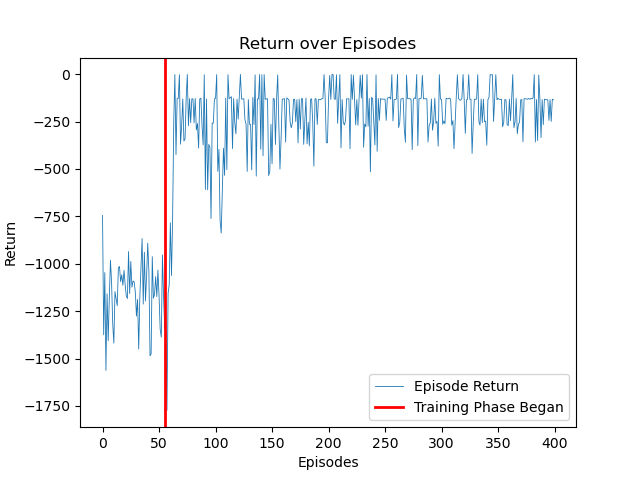
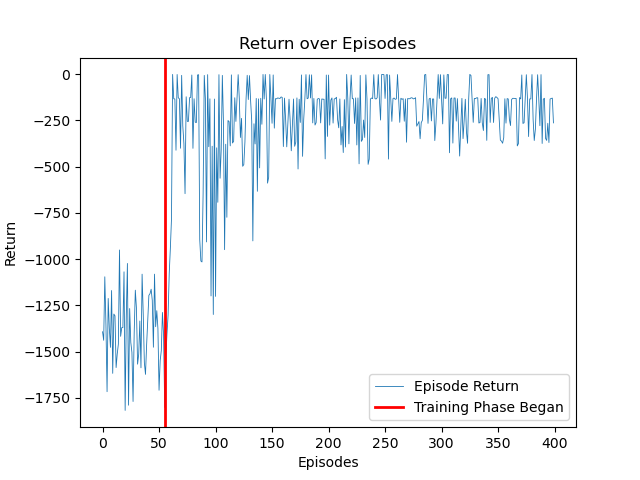
sac error fixed - no target actor

diff --git a/Soft Actor Critic (SAC)/SAC_Networks.py b/Soft Actor Critic (SAC)/SAC_Networks.py
@@ -32,8 +32,9 @@ class SAC(object):
 
         with tf.compat.v1.variable_scope('Actor'):
             self.mu, self.std, self.actions, self.log_pi = self.build_actor(self.states, scope='eval', trainable=True) 
-            _, _, self.actions_next, self.log_pi_next = self.build_actor(self.next_states, scope='target', trainable= False) 
-
+            #_, _, self.actions_next, self.log_pi_next = self.build_actor(self.next_states, scope='target', trainable= False) 
+            _, _, self.actions_next, self.log_pi_next = self.build_actor(self.next_states, scope='eval', trainable= True) 
+            
         with tf.compat.v1.variable_scope('Critic'):
             q1 = self.build_critic(self.states, self.actions, scope='eval1', trainable=True)
             q2 = self.build_critic(self.states, self.actions, scope='eval2', trainable=True)
@@ -44,7 +45,7 @@ class SAC(object):
 
         # networks parameters
         self.actor_params = tf.compat.v1.get_collection(tf.compat.v1.GraphKeys.GLOBAL_VARIABLES, scope='Actor/eval')
-        self.actor_t_params = tf.compat.v1.get_collection(tf.compat.v1.GraphKeys.GLOBAL_VARIABLES, scope='Actor/target')
+        #self.actor_t_params = tf.compat.v1.get_collection(tf.compat.v1.GraphKeys.GLOBAL_VARIABLES, scope='Actor/target')
         
         self.critic1_params = tf.compat.v1.get_collection(tf.compat.v1.GraphKeys.GLOBAL_VARIABLES, scope='Critic/eval1')
         self.critic1_t_params = tf.compat.v1.get_collection(tf.compat.v1.GraphKeys.GLOBAL_VARIABLES, scope='Critic/target1')
@@ -56,7 +57,7 @@ class SAC(object):
         # target net replacement (two targets for the two q-networks)
         self.soft_replace_critic1 = [tf.compat.v1.assign(t, (1 - self.config.TAU) * t + self.config.TAU * e) for t, e in zip(self.critic1_t_params, self.critic1_params)]
         self.soft_replace_critic2 = [tf.compat.v1.assign(t, (1 - self.config.TAU) * t + self.config.TAU * e) for t, e in zip(self.critic2_t_params, self.critic2_params)]
-        self.soft_replace_actor = [tf.compat.v1.assign(t, (1 - self.config.TAU) * t + self.config.TAU * e) for t, e in zip(self.actor_t_params, self.actor_params)]
+        #self.soft_replace_actor = [tf.compat.v1.assign(t, (1 - self.config.TAU) * t + self.config.TAU * e) for t, e in zip(self.actor_t_params, self.actor_params)]
 
         
         # Apply the clipped double Q trick --> Get the minimum Q value of the 2 target q-networks
@@ -84,7 +85,7 @@ class SAC(object):
 
     # policy sampling will be restricted to -1 to +1 with a tanh function
     def build_actor(self, states, scope, trainable):
-        with tf.compat.v1.variable_scope(scope):
+        with tf.compat.v1.variable_scope(scope, reuse = tf.compat.v1.AUTO_REUSE):
             n_l1 = 256
             prob = tf.compat.v1.layers.dense(states, n_l1, trainable=trainable)
             prob = tf.nn.relu(prob)
@@ -160,16 +161,15 @@ class SAC(object):
         #print('next_states shape', bs_.shape)
 
 
-        self.sess.run(self.actor_optimizer, {self.states: bs})
-        self.sess.run(self.critic1_optimizer, {self.states: bs, self.actions: ba, self.rewards : br, self.next_states: bs_})
-        self.sess.run(self.critic2_optimizer, {self.states: bs, self.actions: ba, self.rewards : br, self.next_states: bs_})
+        self.sess.run([self.actor_optimizer, self.critic1_optimizer, self.critic2_optimizer], \
+                     {self.states: bs, self.actions: ba, self.rewards : br, self.next_states: bs_})
+        #self.sess.run(self.critic1_optimizer, {self.states: bs, self.actions: ba, self.rewards : br, self.next_states: bs_})
+        #self.sess.run(self.critic2_optimizer, {self.states: bs, self.actions: ba, self.rewards : br, self.next_states: bs_})
         #self.sess.run(self.alpha_optimizer, {self.states: bs})
 
 
         # soft target replacement
-        self.sess.run(self.soft_replace_actor)
-        self.sess.run(self.soft_replace_critic1)
-        self.sess.run(self.soft_replace_critic2)
+        self.sess.run([self.soft_replace_critic1, self.soft_replace_critic2])
         
         #mu = np.mean(self.sess.run(self.mu, {self.states: bs}))
         #std = np.mean(self.sess.run(self.std, {self.states: bs}))

diff --git a/README.md b/README.md
@@ -8,7 +8,7 @@ Note that DQN was implemented using Keras while DDPG and SAC were implemented at
 
 # Q-Learning
  While in Markov Process (MP), the transition probability dictates the next state from one state, in MDP, the action dictates the next state from one state. And there are consequences of taking a certain action in every state, which we call "rewards". The idea of Q-learning is to learn the optimal policy in a Markov Decision Process (MDP). First, where is the term "Q" coming from? "Q" refers to the action-value function that returns the expected return from taking a certain action in the given state and following the given policy thereafter (sum of expected rewards). In other words, it returns the "value" of a certain action in a given state under the given policy. 
- Then, what is the optimal policy in a MDP? It is simply the policy that yields the maximum sum of expected rewards, which is also the outcome of the optimal action-value function (Q-function) given the same state and action. Since the action-value function while following the optimal policy would yield the maximum expected return, Q-learning can learn the optimal policy by learning the action-value function. (will not go into too much details like Bellman optimality and such)
+ Then, what is the optimal policy in a MDP? It is simply the policy that yields the maximum sum of expected rewards, which is also the outcome of the optimal action-value function (Q-function) given the same state and action. Since the action-value function while following the optimal policy would yield the maximum expected return, Q-learning can learn the optimal policy by learning the action-value function. (will not go into too much details of the Bellman optimality and such)
 
 # Deep Q-Learning
 ## Deep Q-Networks (DQN)
